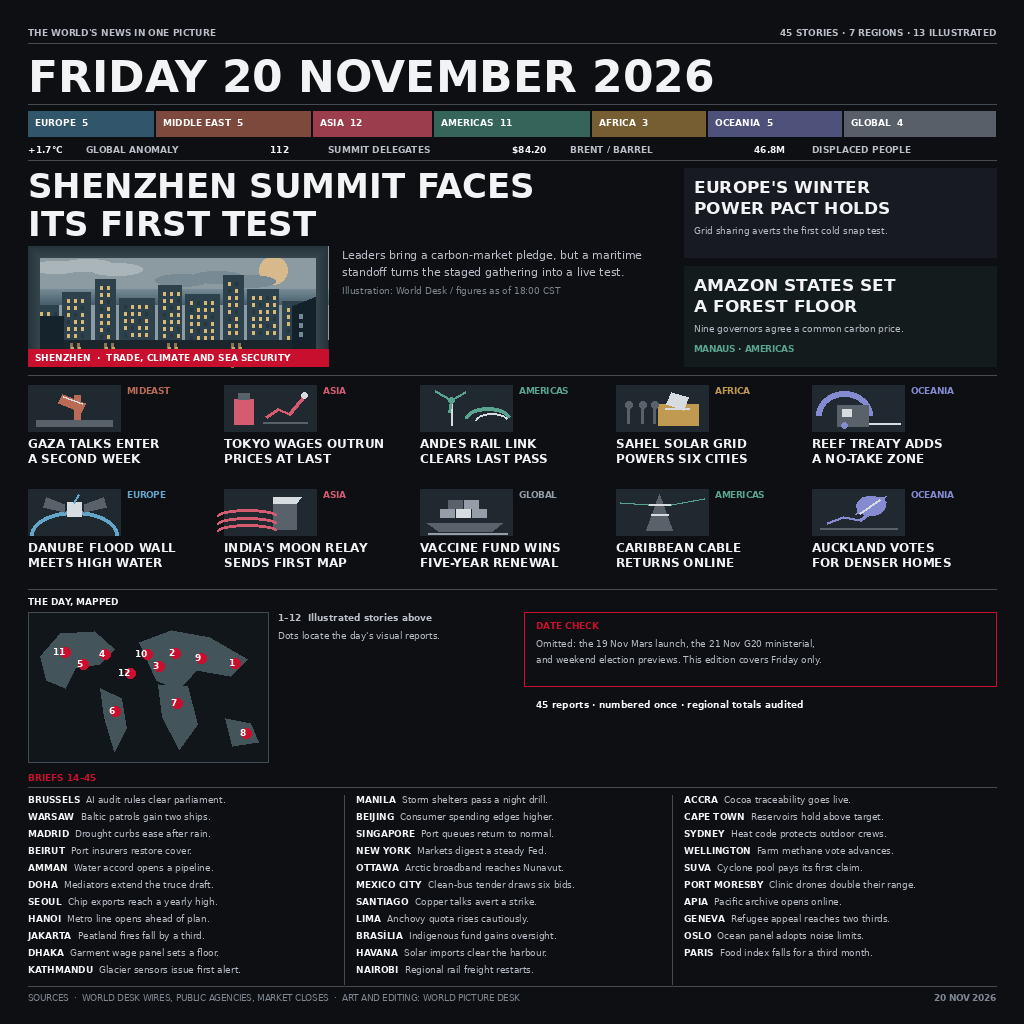
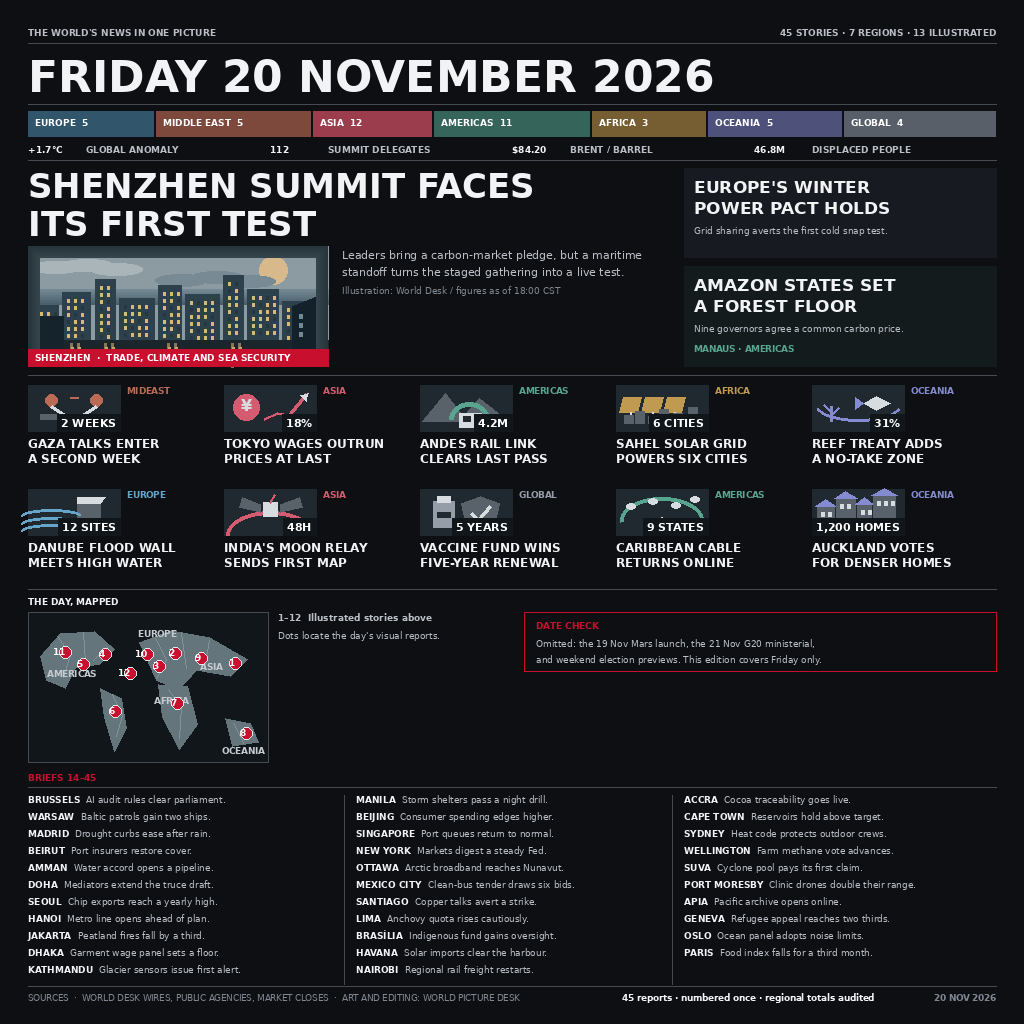
Refine card scenes and mapped footer

diff --git a/gen.py b/gen.py
@@ -116,55 +116,60 @@ rule(375)
 
 # Ten illustrated cards
 cards=[
- ("MIDEAST","GAZA TALKS ENTER","A SECOND WEEK","#b96b56",0),
- ("ASIA","TOKYO WAGES OUTRUN","PRICES AT LAST","#d55b70",1),
- ("AMERICAS","ANDES RAIL LINK","CLEARS LAST PASS","#58a48e",2),
- ("AFRICA","SAHEL SOLAR GRID","POWERS SIX CITIES","#c09a50",3),
- ("OCEANIA","REEF TREATY ADDS","A NO-TAKE ZONE","#858bd1",4),
- ("EUROPE","DANUBE FLOOD WALL","MEETS HIGH WATER","#65a5c9",5),
- ("ASIA","INDIA'S MOON RELAY","SENDS FIRST MAP","#d55b70",6),
- ("GLOBAL","VACCINE FUND WINS","FIVE-YEAR RENEWAL","#959da8",7),
- ("AMERICAS","CARIBBEAN CABLE","RETURNS ONLINE","#58a48e",8),
- ("OCEANIA","AUCKLAND VOTES","FOR DENSER HOMES","#858bd1",9)]
+ ("MIDEAST","GAZA TALKS ENTER","A SECOND WEEK","#b96b56",0,"2 WEEKS"),
+ ("ASIA","TOKYO WAGES OUTRUN","PRICES AT LAST","#d55b70",1,"18%"),
+ ("AMERICAS","ANDES RAIL LINK","CLEARS LAST PASS","#58a48e",2,"4.2M"),
+ ("AFRICA","SAHEL SOLAR GRID","POWERS SIX CITIES","#c09a50",3,"6 CITIES"),
+ ("OCEANIA","REEF TREATY ADDS","A NO-TAKE ZONE","#858bd1",4,"31%"),
+ ("EUROPE","DANUBE FLOOD WALL","MEETS HIGH WATER","#65a5c9",5,"12 SITES"),
+ ("ASIA","INDIA'S MOON RELAY","SENDS FIRST MAP","#d55b70",6,"48H"),
+ ("GLOBAL","VACCINE FUND WINS","FIVE-YEAR RENEWAL","#959da8",7,"5 YEARS"),
+ ("AMERICAS","CARIBBEAN CABLE","RETURNS ONLINE","#58a48e",8,"9 STATES"),
+ ("OCEANIA","AUCKLAND VOTES","FOR DENSER HOMES","#858bd1",9,"1,200 HOMES")]
 cw, cg = 184, 12
-def vignette(x,y,k,c):
+def vignette(x,y,k,c,callout):
     dark,mid,hi="#202830","#59616b","#d7dce1"
     d.rectangle((x,y,x+92,y+46),fill=dark)
-    if k==0: # court gavel on a bench
-        d.rectangle((x+8,y+35,x+84,y+41),fill=mid); d.rectangle((x+46,y+10,x+52,y+34),fill=c)
-        poly([(x+34,y+9),(x+57,y+18),(x+53,y+27),(x+30,y+18)],c); d.line((x+35,y+11,x+54,y+18),fill=hi,width=2)
-    elif k==1: # vial and chart
-        d.rectangle((x+10,y+14,x+29,y+39),fill=c); d.rectangle((x+14,y+8,x+25,y+14),fill=mid)
-        d.line((x+39,y+37,x+83,y+37),fill=mid,width=2); d.line((x+42,y+32,x+54,y+24,x+65,y+29,x+81,y+10),fill=c,width=3); d.ellipse((x+77,y+7,x+83,y+13),fill=hi)
-    elif k==2: # wind turbine and wave
-        d.line((x+31,y+15,x+31,y+40),fill=hi,width=2); d.ellipse((x+28,y+12,x+34,y+18),fill=c)
-        for ex,ey in [(15,6),(45,7),(29,27)]: d.line((x+31,y+15,x+ex,y+ey),fill=c,width=3)
-        d.arc((x+44,y+22,x+91,y+48),190,345,fill=c,width=4); d.arc((x+55,y+28,x+88,y+45),190,340,fill=hi,width=2)
-    elif k==3: # ballot box with a queue
-        d.rectangle((x+42,y+19,x+82,y+40),fill=c); d.line((x+49,y+23,x+73,y+23),fill=hi,width=2); poly([(x+55,y+7),(x+72,y+12),(x+67,y+25),(x+50,y+19)],hi)
-        for px in (9,23,35): d.ellipse((x+px,y+16,x+px+7,y+23),fill=mid); d.line((x+px+3,y+23,x+px+3,y+38),fill=mid,width=3)
-    elif k==4: # train entering a tunnel
-        d.arc((x+4,y+6,x+60,y+55),180,360,fill=c,width=6); d.rectangle((x+25,y+20,x+56,y+41),fill=mid)
-        d.rectangle((x+30,y+24,x+39,y+31),fill=hi); d.ellipse((x+29,y+37,x+35,y+43),fill=c); d.line((x+57,y+38,x+88,y+38),fill=hi,width=2)
-    elif k==5: # satellite over a curve
-        d.arc((x+2,y+22,x+90,y+70),180,360,fill=c,width=4); d.rectangle((x+39,y+13,x+53,y+27),fill=hi)
-        poly([(x+36,y+15),(x+18,y+8),(x+15,y+18),(x+36,y+23)],mid); poly([(x+56,y+15),(x+75,y+8),(x+78,y+18),(x+56,y+23)],mid); d.line((x+46,y+13,x+51,y+5),fill=c,width=2)
-    elif k==6: # flood wall with water
+    if k==0: # two sides meeting at a talks table
+        d.rectangle((x+12,y+29,x+79,y+34),fill=mid); d.ellipse((x+17,y+9,x+29,y+21),fill=c); d.ellipse((x+62,y+9,x+74,y+21),fill=c)
+        d.line((x+23,y+21,x+36,y+30),fill=hi,width=3); d.line((x+68,y+21,x+55,y+30),fill=hi,width=3); d.line((x+42,y+12,x+50,y+12),fill=c,width=2)
+    elif k==1: # rising wage chart and yen coin
+        d.ellipse((x+9,y+9,x+35,y+35),fill=c); text(x+17,y+11,"¥",16,hi,True,18)
+        d.line((x+40,y+34,x+53,y+28,x+65,y+30,x+82,y+9),fill=c,width=3); poly([(x+76,y+10),(x+83,y+8),(x+82,y+16)],hi)
+    elif k==2: # train entering a mountain pass
+        poly([(x+2,y+36),(x+25,y+8),(x+43,y+31),(x+59,y+13),(x+90,y+37)],mid); d.arc((x+29,y+17,x+69,y+52),180,360,fill=c,width=5)
+        d.rectangle((x+39,y+28,x+61,y+42),fill=hi); d.rectangle((x+43,y+31,x+50,y+36),fill=dark); d.line((x+63,y+39,x+89,y+39),fill=c,width=2)
+    elif k==3: # solar array powering a small skyline
+        for sx in (7,29,51): poly([(x+sx,y+12),(x+sx+18,y+12),(x+sx+14,y+27),(x+sx-4,y+27)],c)
+        for sx in (7,29,51): d.line((x+sx+7,y+27,x+sx+7,y+34),fill=hi,width=2)
+        for bx,bh in [(8,8),(19,12),(32,7),(43,14),(57,10),(72,16)]: d.rectangle((x+bx,y+38-bh,x+bx+9,y+38),fill=mid)
+    elif k==4: # coral, fish and protected water
+        d.arc((x+3,y+3,x+89,y+36),15,165,fill=c,width=3); poly([(x+51,y+18),(x+64,y+11),(x+78,y+18),(x+64,y+25)],hi); poly([(x+51,y+18),(x+43,y+12),(x+43,y+24)],c)
+        d.line((x+19,y+36,x+19,y+21),fill=c,width=3); d.line((x+19,y+27,x+12,y+20),fill=c,width=2); d.line((x+19,y+30,x+27,y+22),fill=c,width=2)
+    elif k==5: # flood wall holding back water
         d.rectangle((x+49,y+8,x+72,y+40),fill=mid); poly([(x+49,y+8),(x+77,y+8),(x+72,y+14),(x+49,y+14)],hi)
         for yy in (27,35,42): d.arc((x-8,y+yy-7,x+54,y+yy+8),190,345,fill=c,width=3)
-    elif k==7: # container ship
-        poly([(x+7,y+34),(x+82,y+34),(x+72,y+42),(x+18,y+42)],mid)
-        for bx,by,bc in [(20,20,c),(36,20,hi),(52,20,c),(28,11,mid),(44,11,c)]: d.rectangle((x+bx,y+by,x+bx+14,y+by+8),fill=bc)
-        d.line((x+8,y+44,x+87,y+44),fill=c,width=2)
-    elif k==8: # power pylon and line
-        poly([(x+43,y+5),(x+30,y+41),(x+56,y+41)],mid); d.line((x+35,y+25,x+52,y+25),fill=hi,width=2); d.line((x+32,y+15,x+55,y+15),fill=hi,width=2)
-        d.line((x+4,y+13,x+32,y+15),fill=c,width=2); d.line((x+55,y+15,x+88,y+9),fill=c,width=2)
-    else: # leaf over a chart
-        d.line((x+8,y+39,x+85,y+39),fill=mid,width=2); d.line((x+15,y+34,x+31,y+28,x+48,y+31,x+73,y+12),fill=c,width=3)
-        d.ellipse((x+44,y+7,x+73,y+26),fill=c); poly([(x+44,y+25),(x+50,y+8),(x+73,y+7),(x+66,y+22)],c); d.line((x+48,y+24,x+68,y+10),fill=hi,width=2)
-for i,(slug,a,b,c,k) in enumerate(cards):
+    elif k==6: # satellite over the moon's curve
+        d.arc((x+2,y+22,x+90,y+70),180,360,fill=c,width=4); d.rectangle((x+39,y+13,x+53,y+27),fill=hi)
+        poly([(x+36,y+15),(x+18,y+8),(x+15,y+18),(x+36,y+23)],mid); poly([(x+56,y+15),(x+75,y+8),(x+78,y+18),(x+56,y+23)],mid); d.line((x+46,y+13,x+51,y+5),fill=c,width=2)
+    elif k==7: # vaccine vial protected by the fund
+        d.rectangle((x+13,y+12,x+34,y+38),fill=c); d.rectangle((x+17,y+7,x+30,y+13),fill=hi); d.rectangle((x+17,y+23,x+30,y+28),fill=dark)
+        poly([(x+60,y+7),(x+79,y+14),(x+75,y+33),(x+60,y+41),(x+45,y+33),(x+41,y+14)],mid); d.line((x+51,y+24,x+58,y+31,x+70,y+17),fill=hi,width=3)
+    elif k==8: # undersea cable joining islands
+        d.arc((x+4,y+8,x+87,y+54),175,355,fill=c,width=4)
+        for px,py in [(14,17),(36,12),(59,16),(78,10)]: d.ellipse((x+px-4,y+py-3,x+px+5,y+py+3),fill=hi)
+        d.rectangle((x+38,y+31,x+53,y+39),fill=mid); d.line((x+45,y+28,x+45,y+34),fill=hi,width=2)
+    else: # denser homes and cranes
+        for bx,by,bw in [(5,17,17),(24,9,19),(45,15,14),(61,6,22)]:
+            d.rectangle((x+bx,y+by,x+bx+bw,y+40),fill=mid); poly([(x+bx-2,y+by),(x+bx+bw//2,y+by-7),(x+bx+bw+2,y+by)],c)
+            for wx in range(bx+4,bx+bw-2,7): d.rectangle((x+wx,y+by+6,x+wx+3,y+by+10),fill=hi)
+    # A compact opaque patch keeps the numeric fact legible over every scene.
+    cf=font(11,True); patch_w=tw(callout,cf)+8
+    d.rectangle((x+92-patch_w,y+29,x+92,y+46),fill="#11161b")
+    text(x+88,y+31,callout,11,"#ffffff",True,patch_w-8,anchor="ra")
+for i,(slug,a,b,c,k,callout) in enumerate(cards):
     row,col=divmod(i,5); x=M+col*(cw+cg); y=385+row*104
-    vignette(x,y,k,c); text(x+99,y+1,slug,8.5,c,True,85)
+    vignette(x,y,k,c,callout); text(x+99,y+1,slug,8.5,c,True,85)
     text(x,y+51,a,12,INK,True,cw); text(x,y+66,b,12,INK,True,cw)
 rule(589)
 
@@ -172,23 +177,32 @@ rule(589)
 text(M,596,"THE DAY, MAPPED",9,INK,True,180)
 mx,my=M,612
 d.rectangle((mx,my,mx+240,my+150),fill="#11161b",outline=RULE)
-land="#44545b"
+land="#65757c"
 poly([(mx+12,my+44),(mx+32,my+21),(mx+66,my+19),(mx+86,my+37),(mx+71,my+52),(mx+47,my+56),(mx+37,my+76),(mx+18,my+68)],land)
 poly([(mx+72,my+76),(mx+93,my+86),(mx+98,my+116),(mx+86,my+139),(mx+76,my+105)],land)
 poly([(mx+111,my+30),(mx+143,my+18),(mx+181,my+25),(mx+219,my+47),(mx+202,my+64),(mx+168,my+58),(mx+150,my+78),(mx+128,my+68)],land)
 poly([(mx+130,my+72),(mx+159,my+74),(mx+169,my+112),(mx+151,my+137),(mx+134,my+105)],land)
 poly([(mx+197,my+106),(mx+222,my+111),(mx+230,my+130),(mx+204,my+134)],land)
+# Faint schematic borders suggest national divisions without turning the map into a chart.
+border="#849198"
+for pts in [[(30,25),(42,43),(35,65)],[(55,20),(57,50)],[(79,35),(65,48)],
+            [(84,82),(94,103),(88,124)],[(127,26),(138,48),(128,66)],[(153,21),(158,56)],
+            [(181,28),(176,58)],[(140,77),(153,95),(151,126)],[(205,111),(215,131)]]:
+    d.line([(mx+px,my+py) for px,py in pts],fill=border,width=1)
+# Five quiet region labels establish orientation while leaving the numbered reports dominant.
+for lx,ly,lab in [(19,57,"AMERICAS"),(110,17,"EUROPE"),(126,84,"AFRICA"),(172,50,"ASIA"),(194,134,"OCEANIA")]:
+    text(mx+lx,my+ly,lab,8.5,"#c5cbd0",True,75)
 dots=[(207,51),(147,41),(131,54),(77,42),(55,52),(87,99),(149,91),(218,121),(173,46),(119,42),(37,40),(102,61)]
 for n,(dx,dy) in enumerate(dots,1):
+    d.ellipse((mx+dx-6,my+dy-6,mx+dx+6,my+dy+6),fill="#e6e9ec")
     d.ellipse((mx+dx-5,my+dy-5,mx+dx+5,my+dy+5),fill=RED)
     text(mx+dx,my+dy-5,str(n),8.5,"#ffffff",True,12,anchor="ra")
 text(mx+250,my,"1–12  Illustrated stories above",9,BODY,True,230)
 text(mx+250,my+18,"Dots locate the day's visual reports.",9,BODY,False,230)
-d.rectangle((524,my,996,my+74),outline=RED,width=1)
+d.rectangle((524,my,996,my+59),outline=RED,width=1)
 text(536,my+8,"DATE CHECK",9,RED,True,130)
 text(536,my+26,"Omitted: the 19 Nov Mars launch, the 21 Nov G20 ministerial,",9,BODY,False,445)
 text(536,my+42,"and weekend election previews. This edition covers Friday only.",9,BODY,False,445)
-text(536,my+87,"45 reports · numbered once · regional totals audited",9,INK,True,440)
 
 # Briefs 14–45, 32 items in three columns
 briefs=[
@@ -214,6 +228,7 @@ for i,(place,clause) in enumerate(briefs):
 
 rule(986)
 text(M,993,"SOURCES  ·  WORLD DESK WIRES, PUBLIC AGENCIES, MARKET CLOSES  ·  ART AND EDITING: WORLD PICTURE DESK",8.5,"#7f8792",False,850)
+text(622,993,"45 reports · numbered once · regional totals audited",8.5,INK,True,300)
 text(W-M,993,"20 NOV 2026",8.5,"#7f8792",True,anchor="ra")
 
 assert img.size == (1024,1024)
